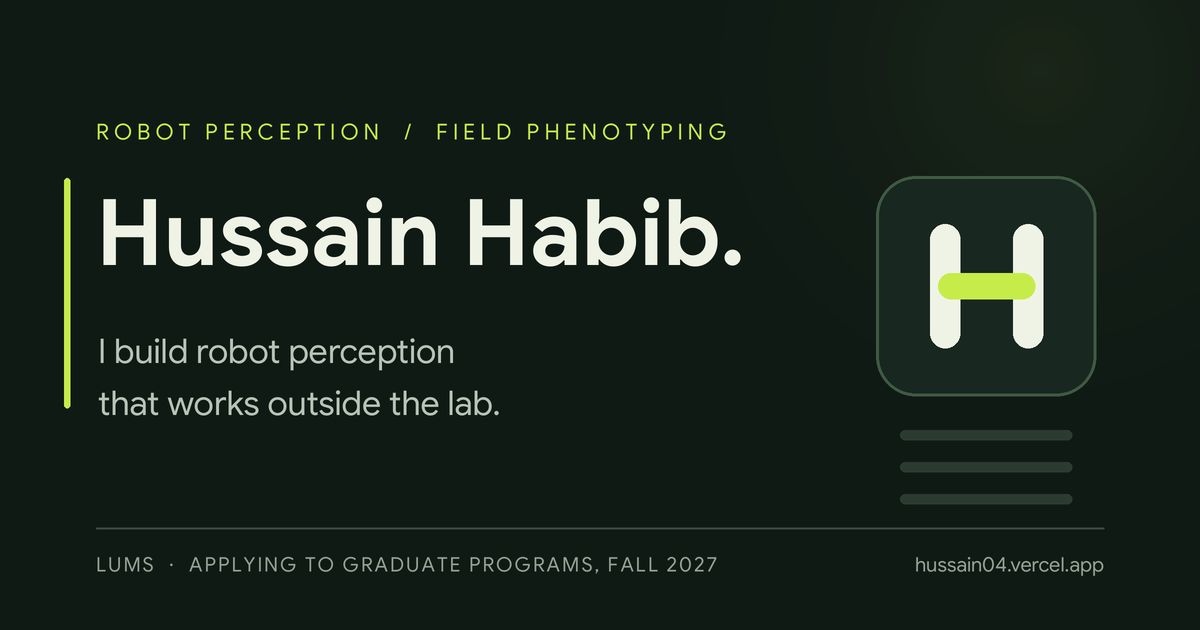
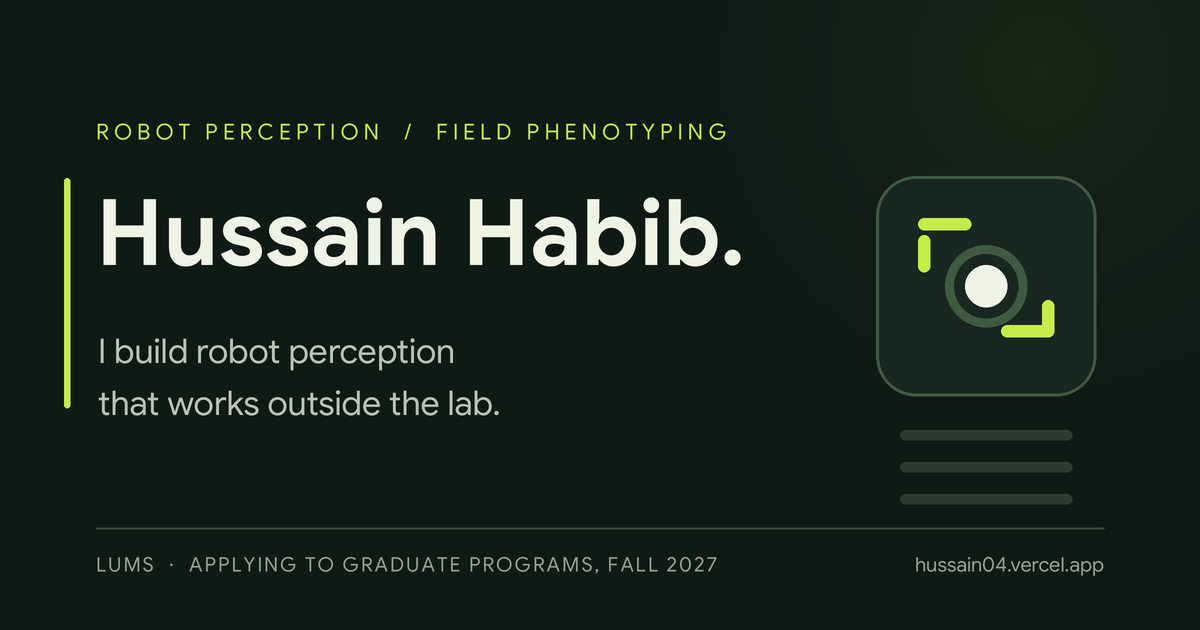
Replace signal-H with a focus-frame brand mark

Changed region(s): [[0.74, 0.3317, 0.8942, 0.573]]

diff --git a/public/404.html b/public/404.html
@@ -23,8 +23,9 @@
   }
   svg.mark { width: 72px; height: 72px; }
   .mark rect { fill: var(--paper); stroke: var(--ink-3); stroke-width: .5; }
-  .mark .stem { stroke: var(--ink); }
-  .mark .signal { stroke: var(--sprout); }
+  .mark .bracket { stroke: var(--sprout); }
+  .mark .ring { stroke: var(--ink-3); opacity: .55; }
+  .mark .core { fill: var(--ink); stroke: none; }
   h1 {
     font-family: 'Google Sans', system-ui, sans-serif;
     font-size: clamp(1.5rem, 4vw, 2.1rem); font-weight: 700; margin: 0;
@@ -41,8 +42,9 @@
   <svg class="mark" viewBox="0 0 32 32" aria-hidden="true">
     <rect width="32" height="32" rx="8"/>
     <g fill="none" stroke-linecap="round">
-      <path class="stem" d="M10 7v18M22 7v18" stroke-width="4.4"/>
-      <path class="signal" d="M9 16h14" stroke-width="3.6"/>
+      <path class="bracket" d="M7 13.5V9.5A2.5 2.5 0 0 1 9.5 7h4M18.5 25h4a2.5 2.5 0 0 0 2.5-2.5v-4" stroke-width="2.8"/>
+      <circle class="ring" cx="16" cy="16" r="6.5" stroke-width="2"/>
+      <circle class="core" cx="16" cy="16" r="3.2"/>
     </g>
   </svg>
   <h1>This room is not on the floor plan.</h1>

diff --git a/index.html b/index.html
@@ -86,7 +86,11 @@
     <g id="i-expand"><path d="M15 3h6v6M9 21H3v-6M21 3l-7 7M3 21l7-7"/></g>
     <g id="i-file"><path d="M14 2H6a2 2 0 0 0-2 2v16a2 2 0 0 0 2 2h12a2 2 0 0 0 2-2V8z"/><polyline points="14 2 14 8 20 8"/></g>
     <g id="i-copy"><rect x="9" y="9" width="11" height="11" rx="2"/><path d="M5 15H4a1 1 0 0 1-1-1V4a1 1 0 0 1 1-1h10a1 1 0 0 1 1 1v1"/></g>
-    <g id="i-mark" fill="none" stroke-linecap="round"><path d="M10 7v18M22 7v18" stroke="currentColor" stroke-width="4.4"/><path d="M9 16h14" stroke="#c6ec4a" stroke-width="3.6"/></g>
+    <g id="i-mark" fill="none" stroke-linecap="round">
+      <path d="M7 13.5V9.5A2.5 2.5 0 0 1 9.5 7h4M18.5 25h4a2.5 2.5 0 0 0 2.5-2.5v-4" stroke="#c6ec4a" stroke-width="2.8"/>
+      <circle cx="16" cy="16" r="6.5" stroke="currentColor" stroke-width="2" opacity=".38"/>
+      <circle cx="16" cy="16" r="3.2" fill="currentColor" stroke="none"/>
+    </g>
   </defs>
 </svg>
 
